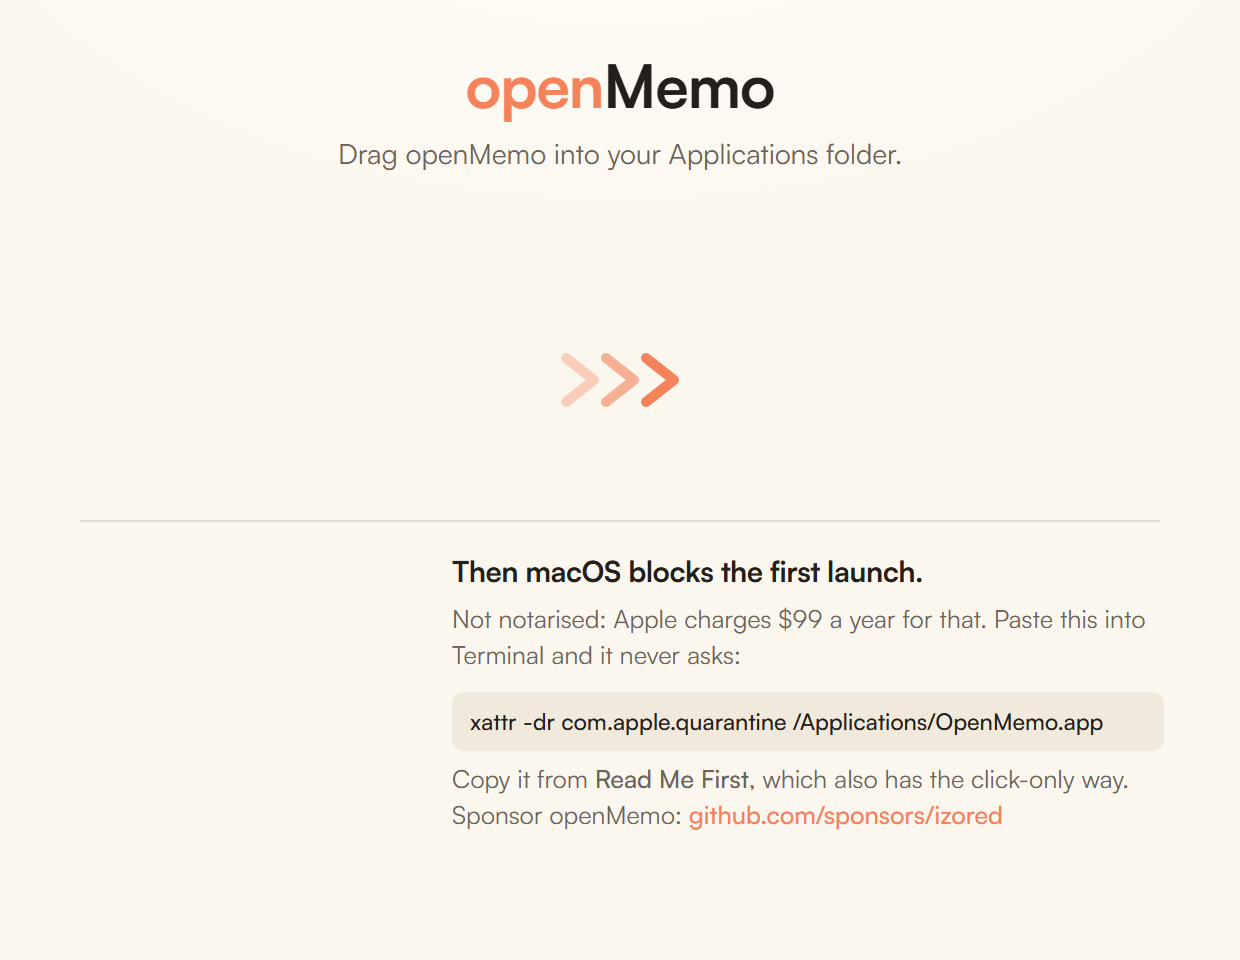
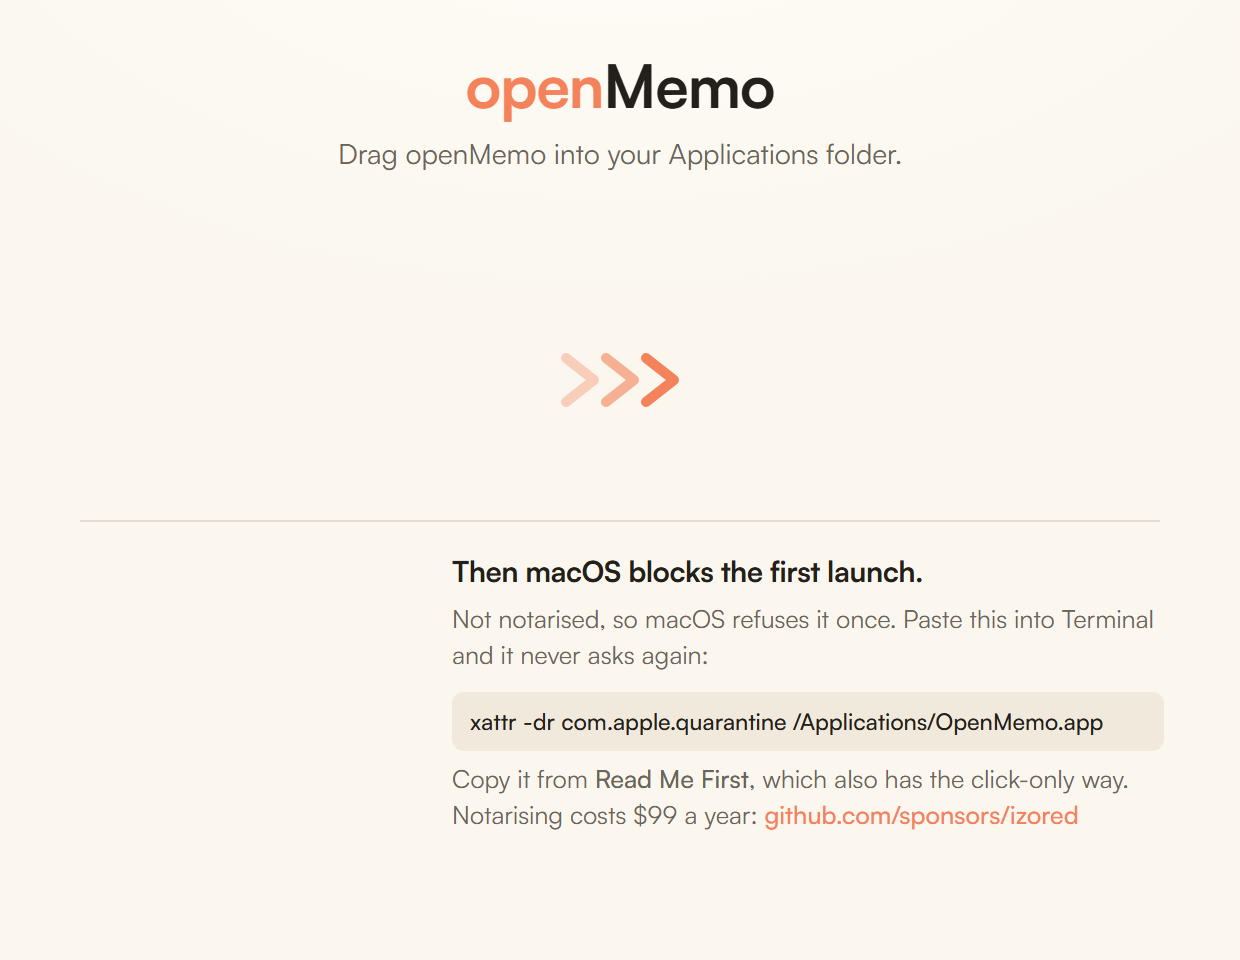
style(macos): keep the price out of the instruction on the dmg window
The block warning opened with what Apple charges, which is an argument, not a
next step: the reader is mid-install and wants to know what to do. The
instruction now says only that macOS refuses it once and how to stop that, and
the cost sits on the last line where it belongs, paired with the link it
explains.

Changed region(s): [[0.3677, 0.625, 0.95, 0.7188], [0.3677, 0.8438, 0.8887, 0.875]]

diff --git a/macOS/buildResources/dmg/background.html b/macOS/buildResources/dmg/background.html
@@ -81,7 +81,7 @@
 
 <div class="foot">
   <h2>Then macOS blocks the first launch.</h2>
-  <p>Not notarised: Apple charges $99 a year for that. Paste this into Terminal and it never asks:</p>
+  <p>Not notarised, so macOS refuses it once. Paste this into Terminal and it never asks again:</p>
   <div class="cmd">xattr -dr com.apple.quarantine /Applications/OpenMemo.app</div>
-  <p class="cmd-label">Copy it from <b>Read Me First</b>, which also has the click-only way.<br />Sponsor openMemo: <i>github.com/sponsors/izored</i></p>
+  <p class="cmd-label">Copy it from <b>Read Me First</b>, which also has the click-only way.<br />Notarising costs $99 a year: <i>github.com/sponsors/izored</i></p>
 </div>
